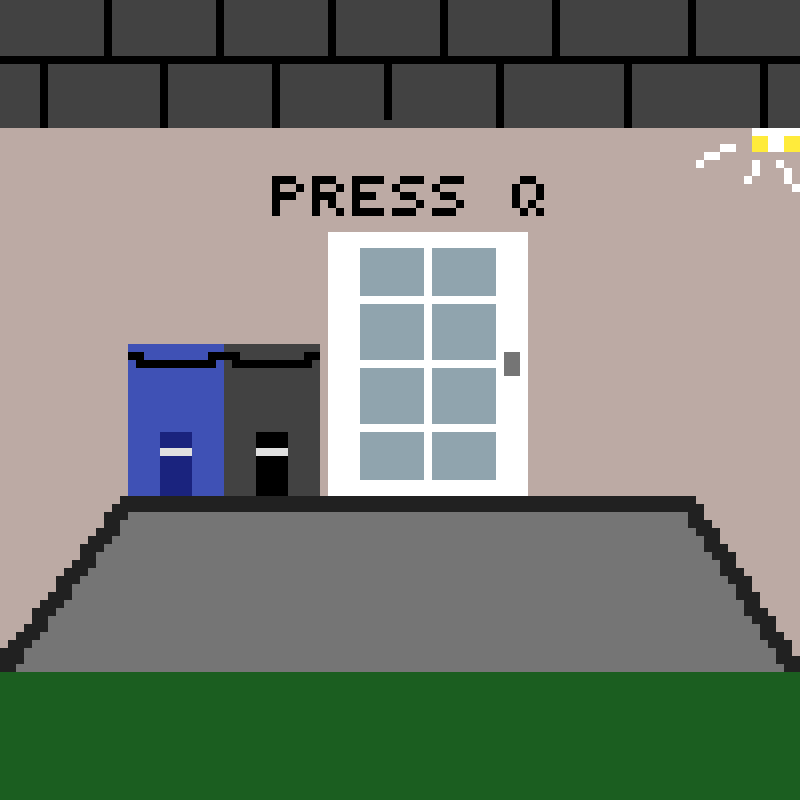
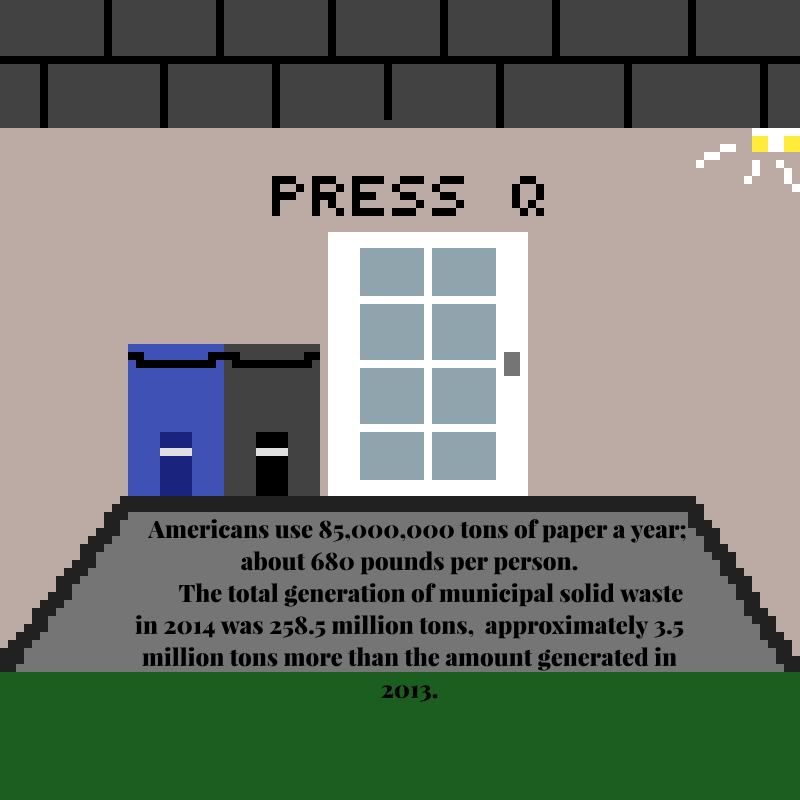
Pictures

Changed region(s): [[0.1562, 0.6562, 0.875, 0.875]]

diff --git a/Game.py b/Game.py
@@ -114,10 +114,10 @@ def Water():
         v.rect = v.image.get_rect()
         v.rect.topleft = [300,450]
         world.blit(v.image, v.rect)
-        print("Americans now use 127 percent more water than we did in 1950.")
-        print("About 95 percent of the water entering our homes goes down the drain.")
-        print("Running the tap while brushing your teeth can waste 4 gallons of water.")
-        print("Many people in the world exist on 3 gallons of water per day or less. We can use that amount in one flush of the toilet.")
+    #     print("Americans now use 127 percent more water than we did in 1950.")
+    #     print("About 95 percent of the water entering our homes goes down the drain.")
+    #     print("Running the tap while brushing your teeth can waste 4 gallons of water.")
+    #     print("Many people in the world exist on 3 gallons of water per day or less. We can use that amount in one flush of the toilet.")
     if keys [pygame.K_r]:
         pygame.display.update()
         pygame.time.wait(10)
@@ -131,10 +131,10 @@ def Water():
         d.rect.topleft = [300, 450] # put the ball in the top left corner
         world.blit(d.image, d.rect)
         pygame.display.flip()
-        print("Americans now use 127 percent more water than we did in 1950.")
-        print("About 95 percent of the water entering our homes goes down the drain.")
-        print("Running the tap while brushing your teeth can waste 4 gallons of water.")
-        print("Many people in the world exist on 3 gallons of water per day or less. We can use that amount in one flush of the toilet.")
+        # print("Americans now use 127 percent more water than we did in 1950.")
+        # print("About 95 percent of the water entering our homes goes down the drain.")
+        # print("Running the tap while brushing your teeth can waste 4 gallons of water.")
+        # print("Many people in the world exist on 3 gallons of water per day or less. We can use that amount in one flush of the toilet.")
 def Outside():
     keys=pygame.key.get_pressed()
     if keys [pygame.K_o]:
@@ -185,10 +185,10 @@ def Lights():
         v.rect = v.image.get_rect()
         v.rect.topleft = [300,275]
         world.blit(v.image, v.rect)
-        print("Compared to traditional incandescents, energy-efficient lightbulbs such as halogen incandescents, compact fluorescent lamps (CFLs), and light emitting diodes (LEDs) have the following advantages: \nTypically use about 25-80 percent less energy than traditional incandescents, saving you money and can last 3-25 times longer.")
-        print("Today’s CFL models have gone through a major makeover. They are smaller, more reasonably priced, save a lot more energy than traditional incandescent bulbs and last longer.")
-        print("CFLs can last up to 10 times longer than incandescent bulbs, saving on production and disposal costs.")
-        print("CFLs use up to 75 percent less energy than traditional incandescent bulbs.")
+        # print("Compared to traditional incandescents, energy-efficient lightbulbs such as halogen incandescents, compact fluorescent lamps (CFLs), and light emitting diodes (LEDs) have the following advantages: \nTypically use about 25-80 percent less energy than traditional incandescents, saving you money and can last 3-25 times longer.")
+        # print("Today’s CFL models have gone through a major makeover. They are smaller, more reasonably priced, save a lot more energy than traditional incandescent bulbs and last longer.")
+        # print("CFLs can last up to 10 times longer than incandescent bulbs, saving on production and disposal costs.")
+        # print("CFLs use up to 75 percent less energy than traditional incandescent bulbs.")
     if keys [pygame.K_c]:
         pygame.display.update()
         pygame.time.wait(10)
@@ -202,17 +202,17 @@ def Lights():
         d.rect.topleft = [300, 230] # put the ball in the top left corner
         world.blit(d.image, d.rect)
         pygame.display.flip()
-        print("Compared to traditional incandescents, energy-efficient lightbulbs such as halogen incandescents, compact fluorescent lamps (CFLs), and light emitting diodes (LEDs) have the following advantages: \nTypically use about 25-80 percent less energy than traditional incandescents, saving you money and can last 3-25 times longer.")
-        print("Today’s CFL models have gone through a major makeover. They are smaller, more reasonably priced, save a lot more energy than traditional incandescent bulbs and last longer.")
-        print("CFLs can last up to 10 times longer than incandescent bulbs, saving on production and disposal costs.")
-        print("CFLs use up to 75 percent less energy than traditional incandescent bulbs.")
-def Recycle():
+        # print("Compared to traditional incandescents, energy-efficient lightbulbs such as halogen incandescents, compact fluorescent lamps (CFLs), and light emitting diodes (LEDs) have the following advantages: \nTypically use about 25-80 percent less energy than traditional incandescents, saving you money and can last 3-25 times longer.")
+        # print("Today’s CFL models have gone through a major makeover. They are smaller, more reasonably priced, save a lot more energy than traditional incandescent bulbs and last longer.")
+        # print("CFLs can last up to 10 times longer than incandescent bulbs, saving on production and disposal costs.")
+        # print("CFLs use up to 75 percent less energy than traditional incandescent bulbs.")
+def Recycle():#Pic
     keys=pygame.key.get_pressed()
     if keys [pygame.K_i]:
         pygame.display.update()
         pygame.time.wait(10)
         pygame.display.flip()
-        image = pygame.image.load('recycle.png').convert()
+        image = pygame.image.load('compostvanessa.png').convert()
         world.blit(image, [0,0])
         pygame.display.flip()
         v = pygame.sprite.Sprite()
@@ -220,14 +220,14 @@ def Recycle():
         v.rect = v.image.get_rect()
         v.rect.topleft = [300,275]
         world.blit(v.image, v.rect)
-        print("Recycled paper produces 73% less air pollution than if it was made from raw materials.")
-        print("Americans use 85,000,000 tons of paper a year; about 680 pounds per person.")
-        print("The total generation of municipal solid waste in 2014 was 258.5 million tons,  approximately 3.5 million tons more than the amount generated in 2013.")
+        # print("Recycled paper produces 73% less air pollution than if it was made from raw materials.")
+        # print("Americans use 85,000,000 tons of paper a year; about 680 pounds per person.")
+        # print("The total generation of municipal solid waste in 2014 was 258.5 million tons,  approximately 3.5 million tons more than the amount generated in 2013.")
     if keys [pygame.K_j]:
         pygame.display.update()
         pygame.time.wait(10)
         pygame.display.flip()
-        image = pygame.image.load('recycle.png').convert()
+        image = pygame.image.load('compostdave.png').convert()
         world.blit(image, [0,0])
         pygame.display.flip()
         d = pygame.sprite.Sprite() # create sprite
@@ -236,9 +236,9 @@ def Recycle():
         d.rect.topleft = [300, 230] # put the ball in the top left corner
         world.blit(d.image, d.rect)
         pygame.display.flip()
-        print("Recycled paper produces 73% less air pollution than if it was made from raw materials.")
-        print("Americans use 85,000,000 tons of paper a year; about 680 pounds per person.")
-        print("The total generation of municipal solid waste in 2014 was 258.5 million tons,  approximately 3.5 million tons more than the amount generated in 2013.")
+#         print("Recycled paper produces 73% less air pollution than if it was made from raw materials.")
+#         print("Americans use 85,000,000 tons of paper a year; about 680 pounds per person.")
+#         print("The total generation of municipal solid waste in 2014 was 258.5 million tons,  approximately 3.5 million tons more than the amount generated in 2013.")
 def Compost():
     keys=pygame.key.get_pressed()
     if keys [pygame.K_q]:
